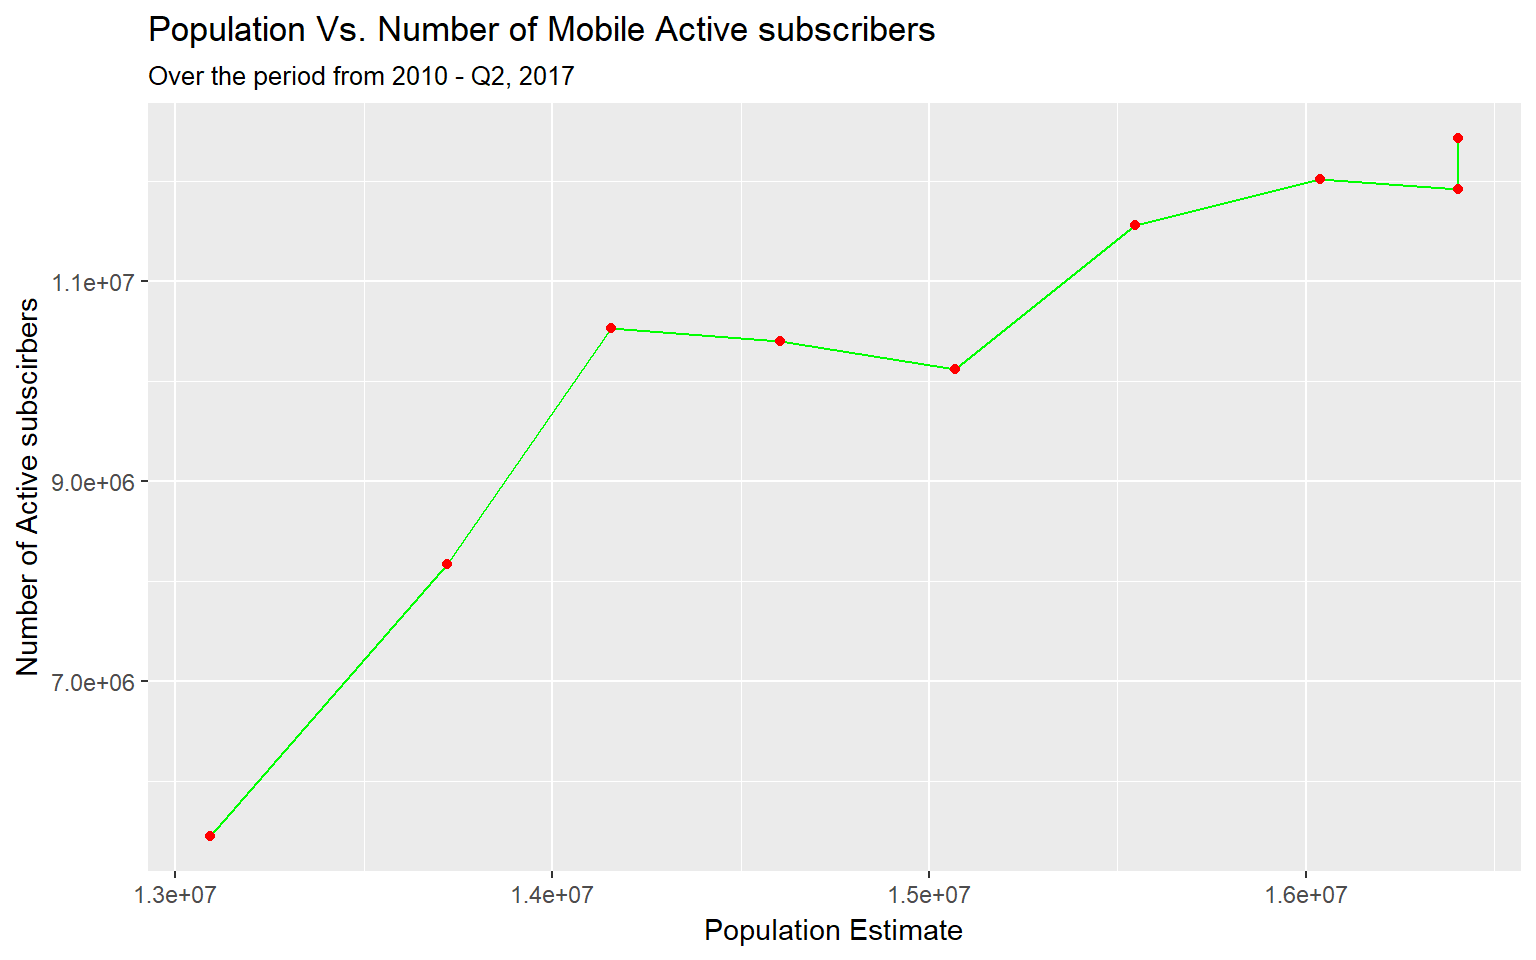
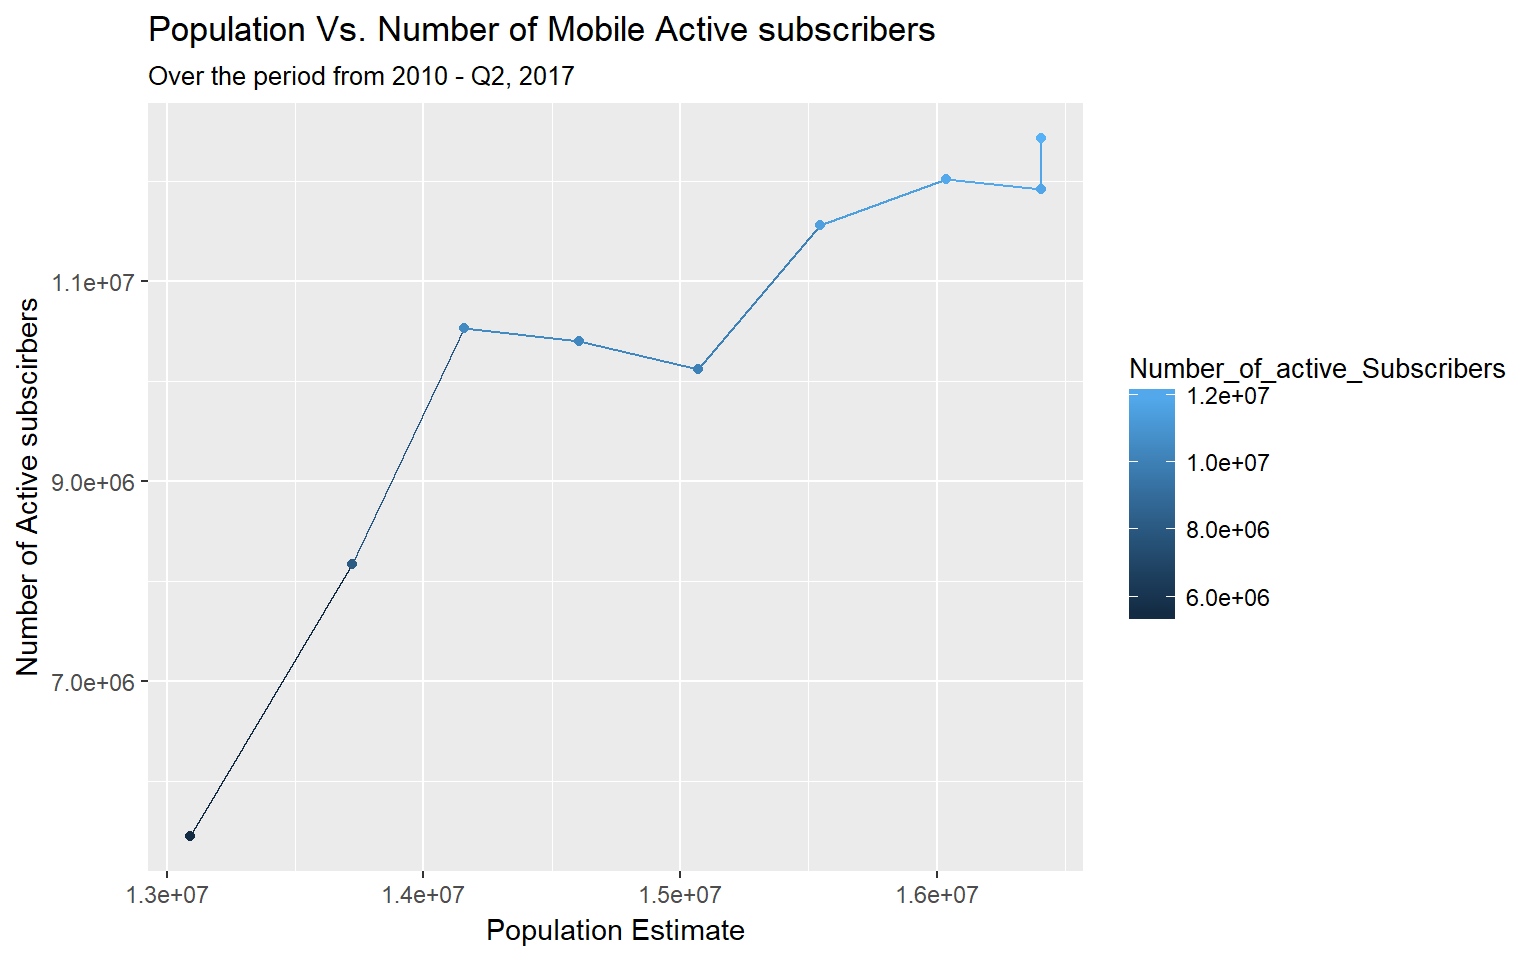
legend extension added

diff --git a/content/post/2017-09-27-mobile-and-internet-penetration-in-zambia.html b/content/post/2017-09-27-mobile-and-internet-penetration-in-zambia.html
@@ -14,7 +14,7 @@ fig_height: 4
 
 
 
-<p>In this post, I take an Exploratory Data Analysis (EDA) of the mobile phone and internet user data statistics for Zambia. Making use of the Zambia Information and Communications, Technology Authority (ZICTA) data. I will walk through the data on the subscriber base, the user trafffic and the cost differentials among the three mobile operators, these being: Airtel,Zamtel and MTN Zambia.In addition, internet usage and the operational data on Internet Service Providers(ISPs) will be used.</p>
+<p>In this post, I take an Exploratory Data Analysis (EDA) of the mobile phone and internet user data statistics for Zambia. Making use of the Zambia Information and Communications, Technology Authority (ZICTA) data. I will walk through the data on the subscriber base, the user trafffic and the cost differentials among the three mobile operators, these being: Airtel, Zamtel and MTN Zambia. In addition, internet usage and the operational data on Internet Service Providers(ISPs) will be used.</p>
 <div id="prerequisites" class="section level2">
 <h2>Prerequisites</h2>
 <p>For this analysis, I will mainly use the following packages. The beauty with the R language is that as a modular language, meaning it is fully extensible with add-on packages. I will make use of the <code>ggplot2</code> for visualising the data; <code>dplyr</code>, which is the package made to seamlessly handle data tranformations, will be used to tweak the data to match the objectives of the analysis. The other packages are <code>readr</code> for data import and <code>plotly</code> for interactive visualization.</p>
@@ -81,13 +81,19 @@ head(internet_coverage, 4)</code></pre>
 ## [29] &quot;SMS_off_net_Mobile&quot;</code></pre>
 <p>It is important to learn the data types and the form your data assumes in your dataset. To achieve this, the <code>str()</code> function can be called. Since the the dataset has variables I am not interested in, I narrow the field with the <code>select()</code> from the <code>dplyr</code> package to select only vairables of interest</p>
 <pre class="r"><code>operator_stats %&gt;% 
-  select(Number_of_PSTN_Operators, Number_of_Mobile_Operators, Number_of_Registered_SIM_Cards, Minutes_of_use_Monthly) %&gt;% 
+  select(Number_of_PSTN_Operators,
+         Number_of_Mobile_Operators, 
+         Number_of_Registered_SIM_Cards, 
+         Minutes_of_use_Monthly) %&gt;% 
   str()</code></pre>
 </div>
 <div id="second-quarter-statistics-from-zicta" class="section level2">
 <h2>Second quarter statistics from ZICTA</h2>
 <p>ZICTA provides the following statistics on ICT as of the second quarter of 2017, as seen below.From these statistics, it can be seen that mobile subsription is slightly under 12.5 million suscribers, representing a penetration rate of 75.77%. On the internet side, a penetration rate is more than a third standing at 35.88%.</p>
-<p><img src="https://user-images.githubusercontent.com/24398851/31033551-2f2fdf7e-a569-11e7-87f1-7cd751d0c310.png" alt="Source: ZICTA" />.</p>
+<div class="figure">
+<img src="https://user-images.githubusercontent.com/24398851/31039423-3acc0a34-a586-11e7-9285-78a08b5d4cd2.png" alt="Source: ZICTA" />
+<p class="caption">Source: ZICTA</p>
+</div>
 </div>
 <div id="number-of-active-users" class="section level2">
 <h2>Number of active users</h2>
@@ -108,9 +114,12 @@ head(internet_coverage, 4)</code></pre>
 <p><img src="/post/2017-09-27-mobile-and-internet-penetration-in-zambia_files/figure-html/unnamed-chunk-7-1.png" width="768" /></p>
 <p>The plot below shows a positive correlationship between the active mobile subscribers with the population estimate from the Central Statistics Office.</p>
 <pre class="r"><code>operator_stats %&gt;% 
-  ggplot(aes(x = Population_CSO_Estimate, y = Number_of_active_Subscribers)) +
-  geom_line(color = &quot;green&quot;) +
-  geom_point(color = &quot;red&quot;) + 
+  ggplot(aes(x = Population_CSO_Estimate, 
+             y = Number_of_active_Subscribers, color = Number_of_active_Subscribers )) +
+  geom_line() +
+  geom_point() + 
+  theme(legend.title = element_text(size = 10)
+    ) + 
   labs(
     x = &quot;Population Estimate&quot;,
     y = &quot;Number of Active subscirbers&quot;
@@ -127,7 +136,8 @@ head(internet_coverage, 4)</code></pre>
   select(Year,Population_CSO_Estimate,
          Number_of_active_Subscribers) %&gt;% 
   mutate(Percentage_change = 
-           (Number_of_active_Subscribers - lag(Number_of_active_Subscribers))/
+           (Number_of_active_Subscribers -
+              lag(Number_of_active_Subscribers))/
            lag(Number_of_active_Subscribers) * 100
            )  </code></pre>
 <pre><code>## # A tibble: 9 x 4
@@ -160,7 +170,12 @@ ggplot() +
     x = Year, 
     y = Traffic_domestic_Outgoing_Minutes_MNO_PSTN),
     color = &quot;green&quot;
-    )</code></pre>
+    ) +
+  labs(
+    x = &quot;Year&quot;, 
+    y = &quot;Domestic incoming/outgoing traffic in minutes&quot;
+  ) + 
+  ggtitle(&quot;Domestic incoming Vs. Outgoing Traffic in minutes&quot;)</code></pre>
 <pre><code>## Warning: Removed 1 rows containing missing values (geom_path).
 
 ## Warning: Removed 1 rows containing missing values (geom_path).</code></pre>
